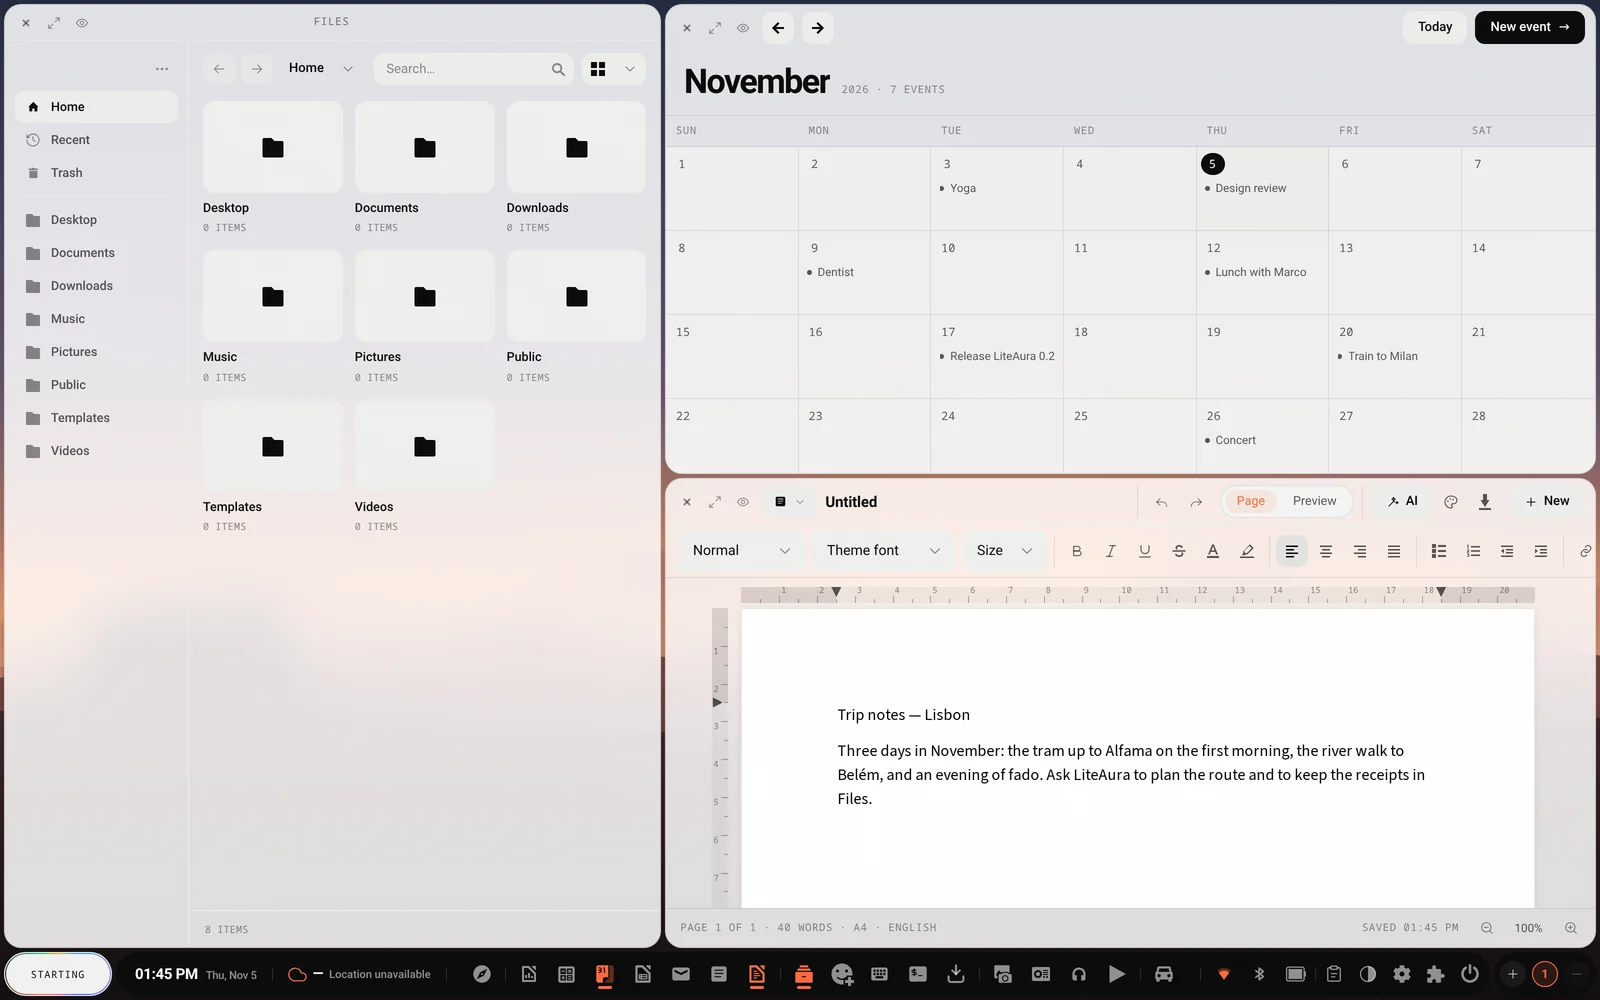
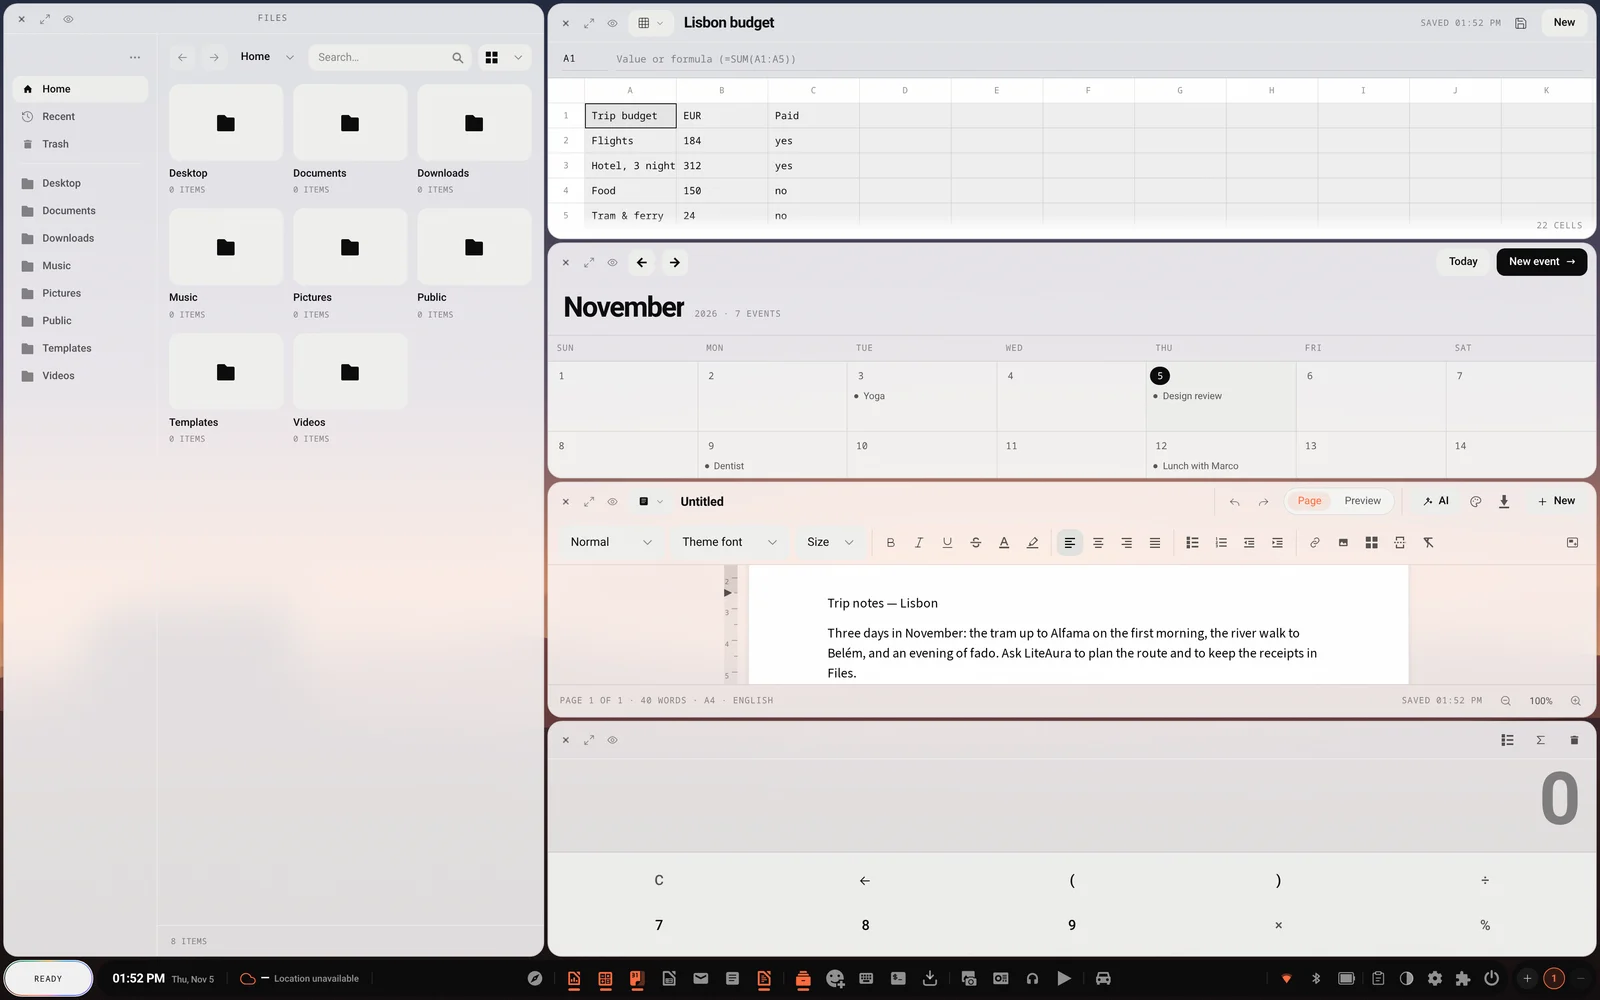
README: five windows in the tiling and free-window shots
Files, a filled-in budget in Calc, Calendar, Word and Calculator, tiled
in Dusk (1920x1200, a narrower main column) and as free windows in Ink.

diff --git a/README.md b/README.md
@@ -15,7 +15,7 @@ plugin** you can add or remove while it runs.
 
 | Tiling · Dusk | Free windows · Ink |
 |---|---|
-| ![Files, Calendar and Word tiled side by side in the Dusk theme](docs/screenshots/tiling-dusk.webp) | ![The same three apps as overlapping free windows in the Ink theme](docs/screenshots/windows-ink.webp) |
+| ![Five apps tiled in the Dusk theme: Files as the main column, Calc, Calendar, Word and Calculator stacked beside it](docs/screenshots/tiling-dusk.webp) | ![The same five apps as overlapping free windows in the Ink theme](docs/screenshots/windows-ink.webp) |
 
 <p align="center">
   <img src="docs/screenshots/phone-dusk.webp" alt="LiteAura on a phone, Dusk theme: one window at a time under the status bar" width="30%">
